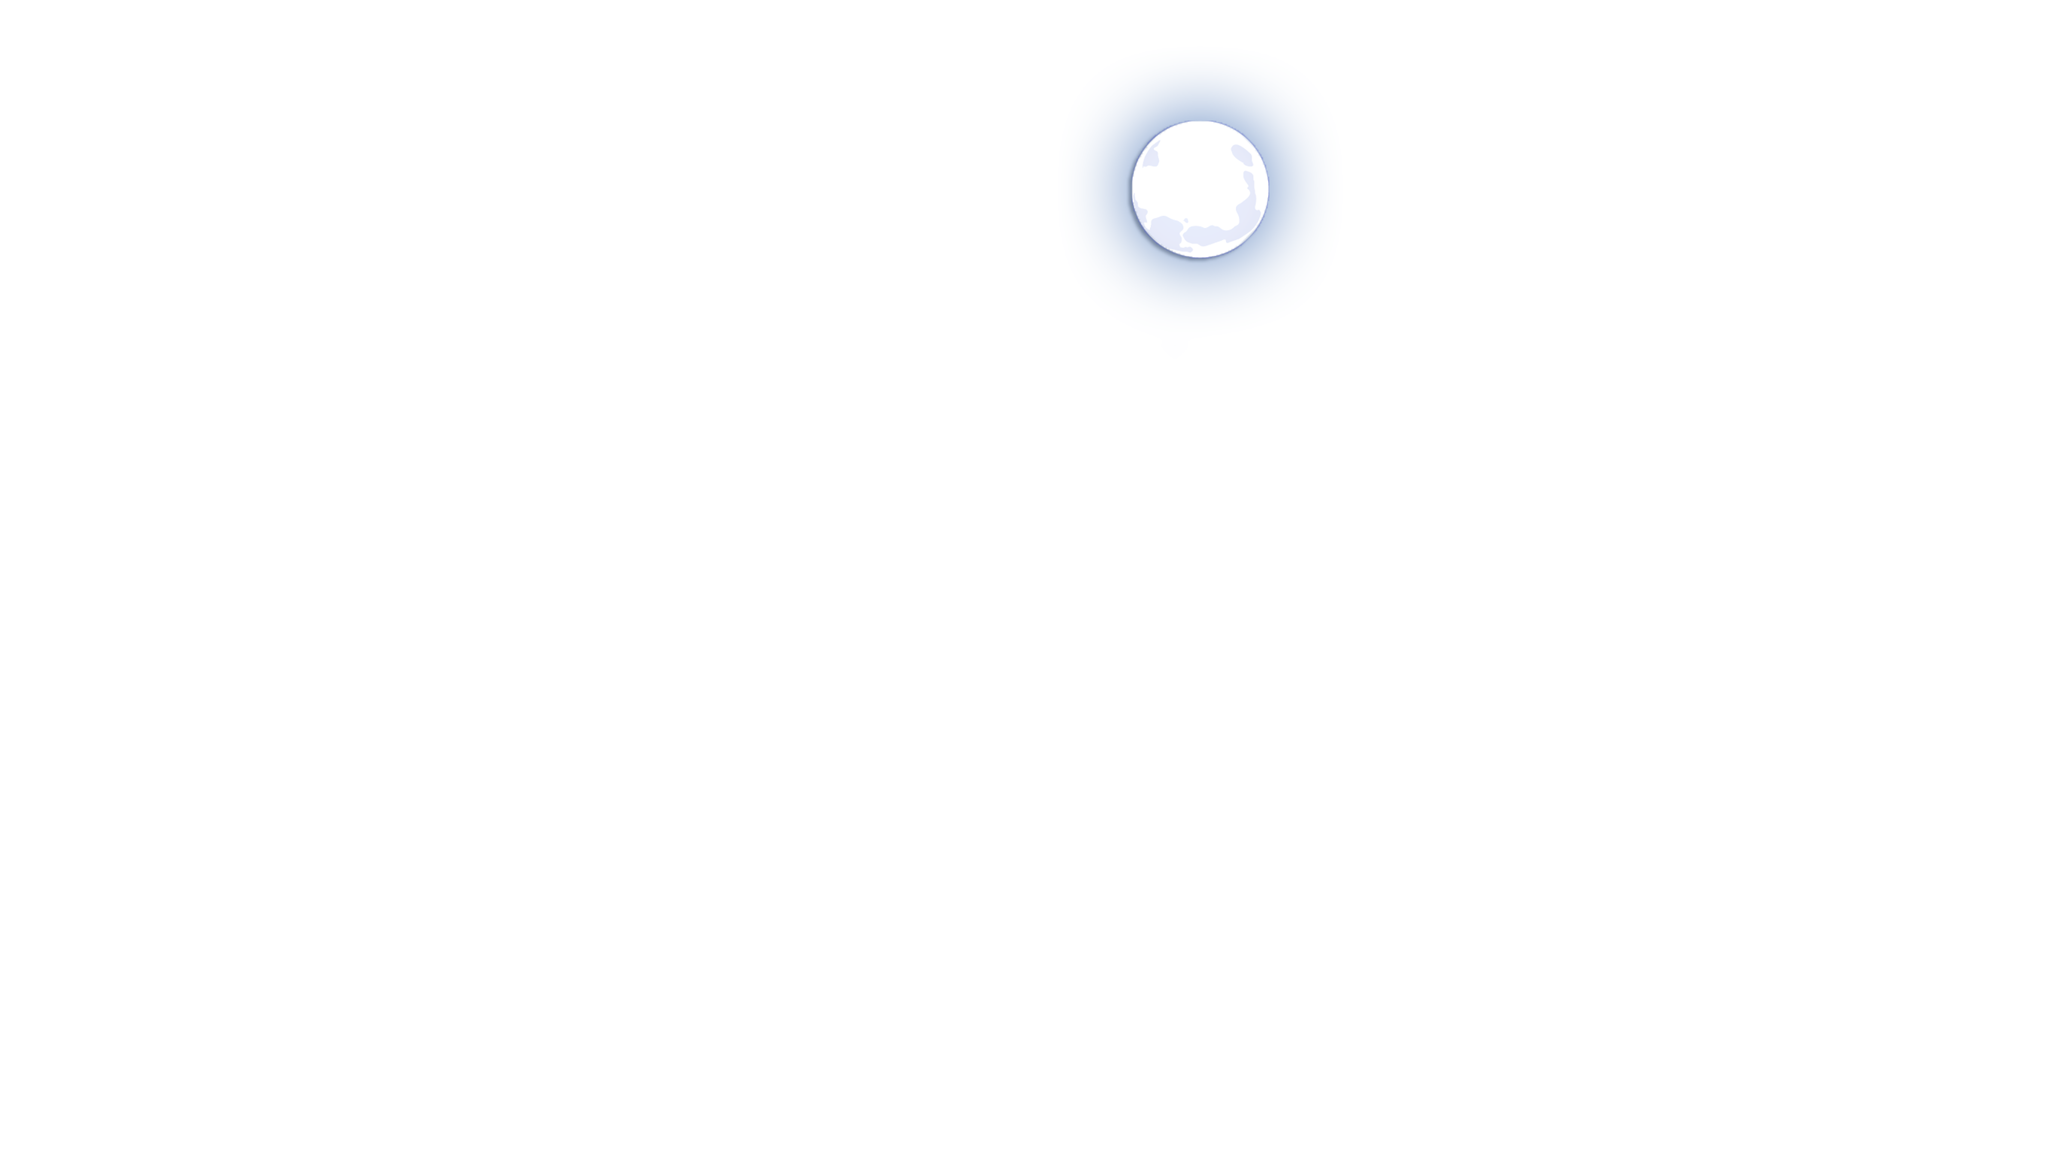
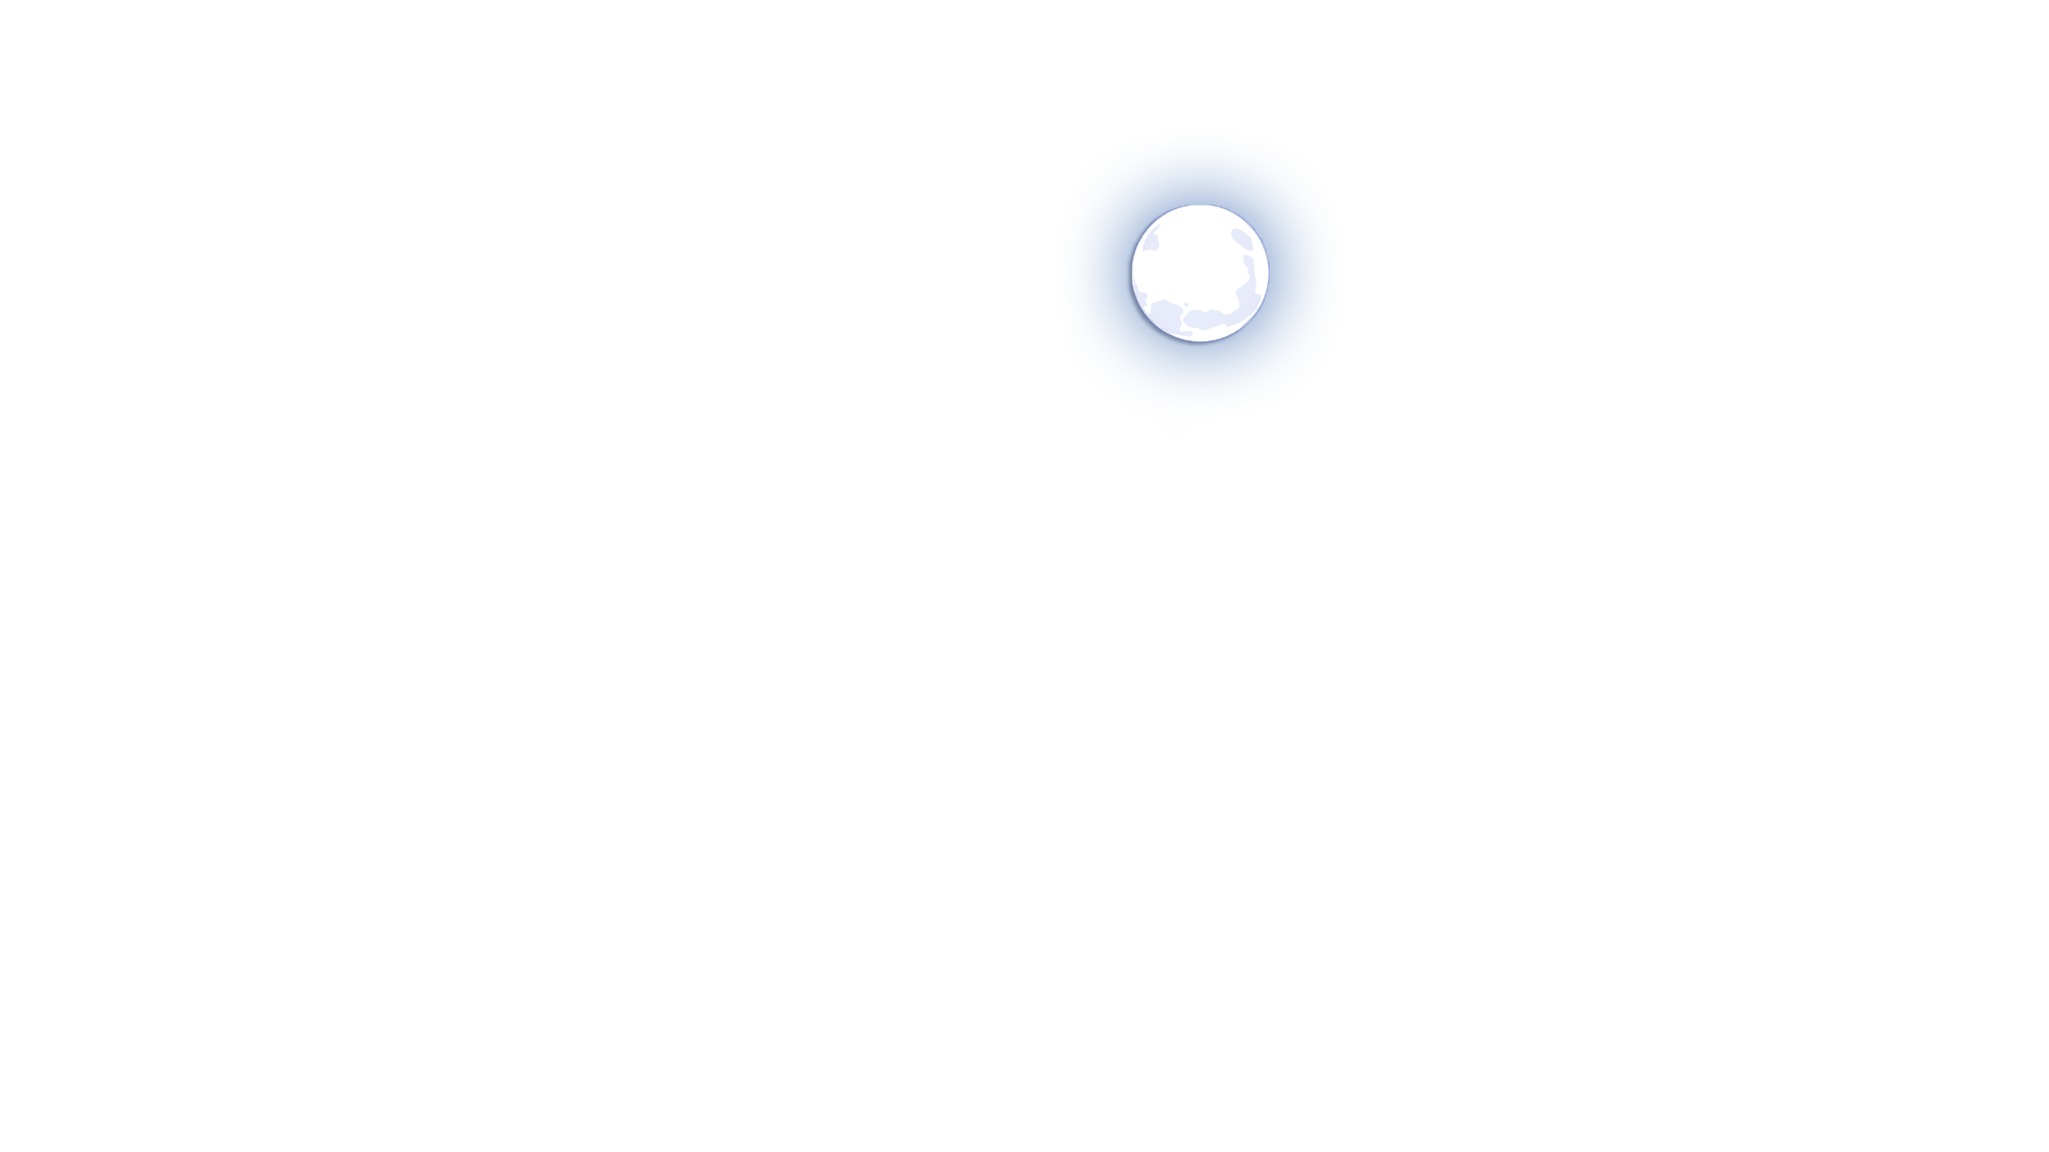
added hello - hero

Changed region(s): [[0.531, 0.0625, 0.6559, 0.3438]]

diff --git a/src/components/HeroParallax.jsx b/src/components/HeroParallax.jsx
@@ -1,5 +1,6 @@
 import React from 'react'
-import { ParallaxBanner } from 'react-scroll-parallax'
+import { ParallaxBanner, ParallaxBannerLayer } from 'react-scroll-parallax'
+import { motion } from 'framer-motion'
 
 import bg from "../assets/hero/stars.png";
 import moon from "../assets/hero/moon.png";
@@ -13,48 +14,20 @@ const HeroParallax = () => {
         <header>
             <ParallaxBanner
                 id='home'
-                className="h-[100vh] w-full bg-#bbe8f6"
-                layers={[
-                    {
-                        className: 'bg-slate-900',
-                        image: bg,
-                        translateY: [0, 50],
-                        shouldAlwaysCompleteAnimation: true,
-                        expanded: false,
-                    },
-                    {
-                        image: moon,
-                        translateY: [0, 30],
-                        translateX: [0, 30],
-                        shouldAlwaysCompleteAnimation: true,
-                        expanded: false,
-                    },
-                    {
-                        image: bg1,
-                        translateY: [0, 55],
-                        shouldAlwaysCompleteAnimation: true,
-                        expanded: false,
-                    },
-                    {
-                        image: bg2,
-                        translateY: [0, 35],
-                        shouldAlwaysCompleteAnimation: true,
-                        expanded: false,
-                    },
-                    {
-                        image: bg3,
-                        translateY: [0, 25],
-                        shouldAlwaysCompleteAnimation: true,
-                        expanded: false,
-                    },
-                    {
-                        image: bg4,
-                        translateY: [5, 10],
-                        shouldAlwaysCompleteAnimation: true,
-                        expanded: false,
-                    },
-                ]}
-            >
+                className="h-[100vh] w-full bg-slate-900" >
+                <ParallaxBannerLayer image={bg} translateY={[0, 50]} shouldAlwaysCompleteAnimation='true' expanded='false' />
+                <motion.div initial={{ opacity: 0 }} animate={{ opacity: 1 }} transition={{ duration: 4 }}>
+                    <ParallaxBannerLayer image={moon} translateY={[0, 30]} translateX={[0, 30]} shouldAlwaysCompleteAnimation='true' expanded='false' />
+                </motion.div>
+                <ParallaxBannerLayer image={bg1} translateY={[20, 50]} shouldAlwaysCompleteAnimation='true' expanded='false' />
+                <ParallaxBannerLayer image={bg2} translateY={[16, 35]} shouldAlwaysCompleteAnimation='true' expanded='false' />
+                <ParallaxBannerLayer className='flex text-center flex-col justify-center' translateY={[13, 35]} translateX={[5, 5]} shouldAlwaysCompleteAnimation='true' expanded='false'>
+                    <motion.div initial={{ opacity: 0 }} animate={{ opacity: 1 }} transition={{ duration: 2 }}>
+                        <h1 className='font-roboto font-bold sm:text-8xl md:text-9xl drop-shadow-2xl'>Hello</h1>
+                    </motion.div>
+                </ParallaxBannerLayer>
+                <ParallaxBannerLayer image={bg3} translateY={[15, 25]} shouldAlwaysCompleteAnimation='true' expanded='false' />
+                <ParallaxBannerLayer image={bg4} translateY={[15, 0]} shouldAlwaysCompleteAnimation='true' expanded='false' />
             </ParallaxBanner>
         </header>
 

diff --git a/src/components/Hobbies.jsx b/src/components/Hobbies.jsx
@@ -14,7 +14,7 @@ const Hobbies = () => {
                     </Parallax>
                     <div className='pb-10 lg:pb-0 pt-6 md:pt-12'>
                         <h2 className='section-title'>Hobbies</h2>
-                        <p className='subtitle'>I firmly believe that engaging hobbies contribute to a healthier life style. Really, any activity can help you relax and reduce stress as long as you are passionate about it. Having said that, I thought it was important to highlight some of my interests here so that you could get to know me better.</p>
+                        <p className='subtitle'>I firmly believe that engaging hobbies contribute to a healthier life style. Really, any activity that can help you relax and reduce stress is crucial. Having said that, I thought it was important to highlight some of my interests here so that you could get to know me better.</p>
                     </div>
                 </div>
                 <HobbiesSlider />

diff --git a/src/components/Header.jsx b/src/components/Header.jsx
@@ -11,17 +11,15 @@ const Header = () => {
 
     useEffect(() => {
         window.addEventListener('scroll', () => {
-            return window.scrollY > 600 ? setBg(true) : setBg(false)
+            return window.scrollY > 650 ? setBg(true) : setBg(false)
         })
     });
 
     return (
         <header className={`${bg ? 'bg-tertiary h-20' : 'h-24'} 
-        flex items-center fixed top-0 w-full
-        text-white z-10 transition-all duration-300`}
-        >
-            <div className='container mx-auto h-full flex
-            items-center justify-between'>
+                        flex items-center fixed top-0 w-full
+                        text-white z-10 transition-all duration-300`} >
+            <div className='container mx-auto h-full flex items-center justify-between'>
                 {/* logo */}
                 <a href='#'>
                     <img className='h-8' src={Logo} alt='' />

diff --git a/src/data.jsx b/src/data.jsx
@@ -192,7 +192,7 @@ export const hobbies = [
     {
         hobImg: HobImage4,
         hobText:
-            "As you may have seen, all of my past interests served as outlets for my competitive nature. On the other side, 3-D printing is a hobby that allows me to unwind, express my creativity, and produce something I find fascinating. From functional computer mouse to miniatures of marvel super heroes.",
+            "As you may have noticed, all of my previous interests serve as outlet for my competitive nature. On the other side, 3-D printing is a hobby that allows me to unwind, express my creativity, and produce something I find fascinating. From functional computer mice to miniatures of DC super heroes.",
         hobTitle: '3D-Printing',
         hobDesc: 'Functional Mice / Detailed Figures',
     },

diff --git a/src/components/Footer.jsx b/src/components/Footer.jsx
@@ -12,7 +12,7 @@ const Footer = () => {
                         {social.map((item, index) => {
                             const { href, icon } = item;
                             return (
-                                <a className='text-main text-xl hover:text-main_light hover:scale-110' href={href} key={index}>
+                                <a className='text-main text-xl hover:text-main_light hover:scale-110 hover:animate-spin' href={href} key={index}>
                                     {icon}
                                 </a>
                             )

diff --git a/src/components/Socials.jsx b/src/components/Socials.jsx
@@ -7,7 +7,7 @@ const Socials = () => {
     return (
         <ul className='flex space-x-6'>
             {social.map((item, index) => {
-                return <li className='flex justify-center items-center text-main hover:text-main_light hover:scale-105' key={index}>
+                return <li className='flex justify-center items-center text-main hover:text-main_light hover:scale-110 hover:animate-spin' key={index}>
                     <a className='text-base' href={item.href}>
                         {item.icon}
                     </a>

diff --git a/src/components/About.jsx b/src/components/About.jsx
@@ -30,7 +30,7 @@ const About = () => {
                             </div>
                         </div>
                         <button className='btn btn-md bg-main hover:bg-main_dark transition-all'>
-                            Contact me
+                            Download my CV
                         </button>
                     </div>
                 </div>

diff --git a/src/index.css b/src/index.css
@@ -1,4 +1,4 @@
-@import url('https://fonts.googleapis.com/css2?family=Sora:wght@200;300;400;500;700;800&display=swap');
+@import url('https://fonts.googleapis.com/css2?family=Roboto:wght@400;700&family=Sora:wght@200;300;400;500;700;800&display=swap');
 
 @tailwind base;
 @tailwind components;
